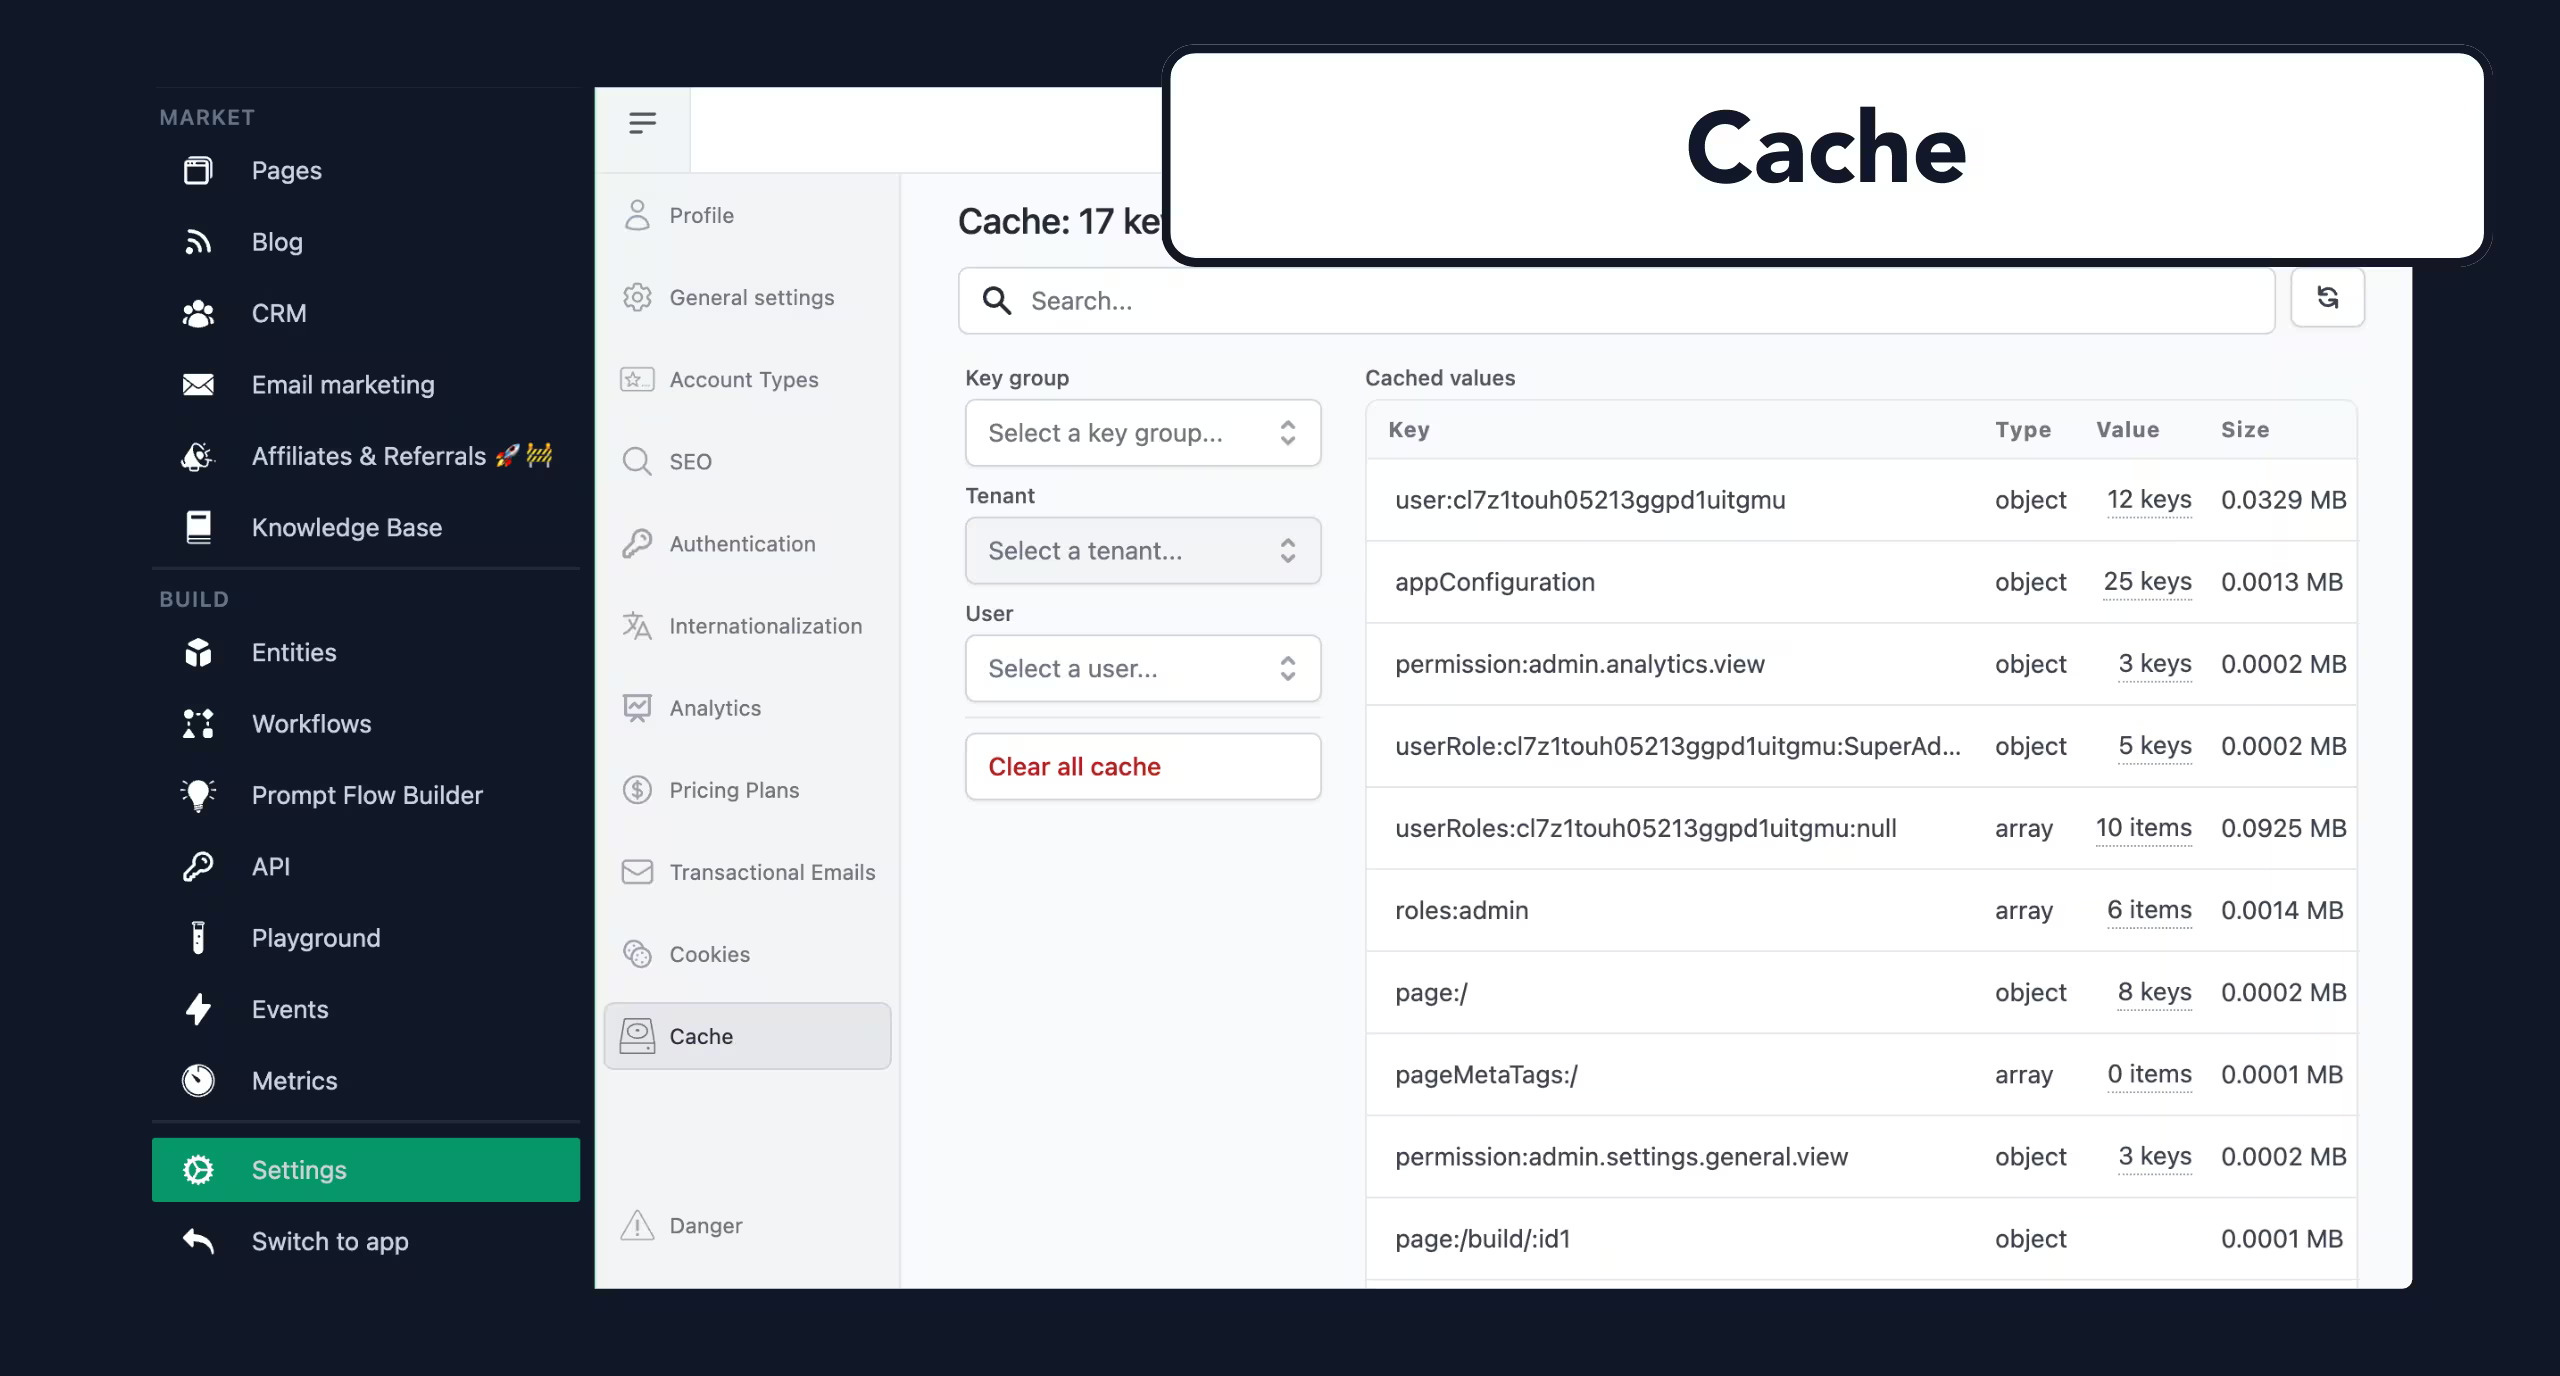
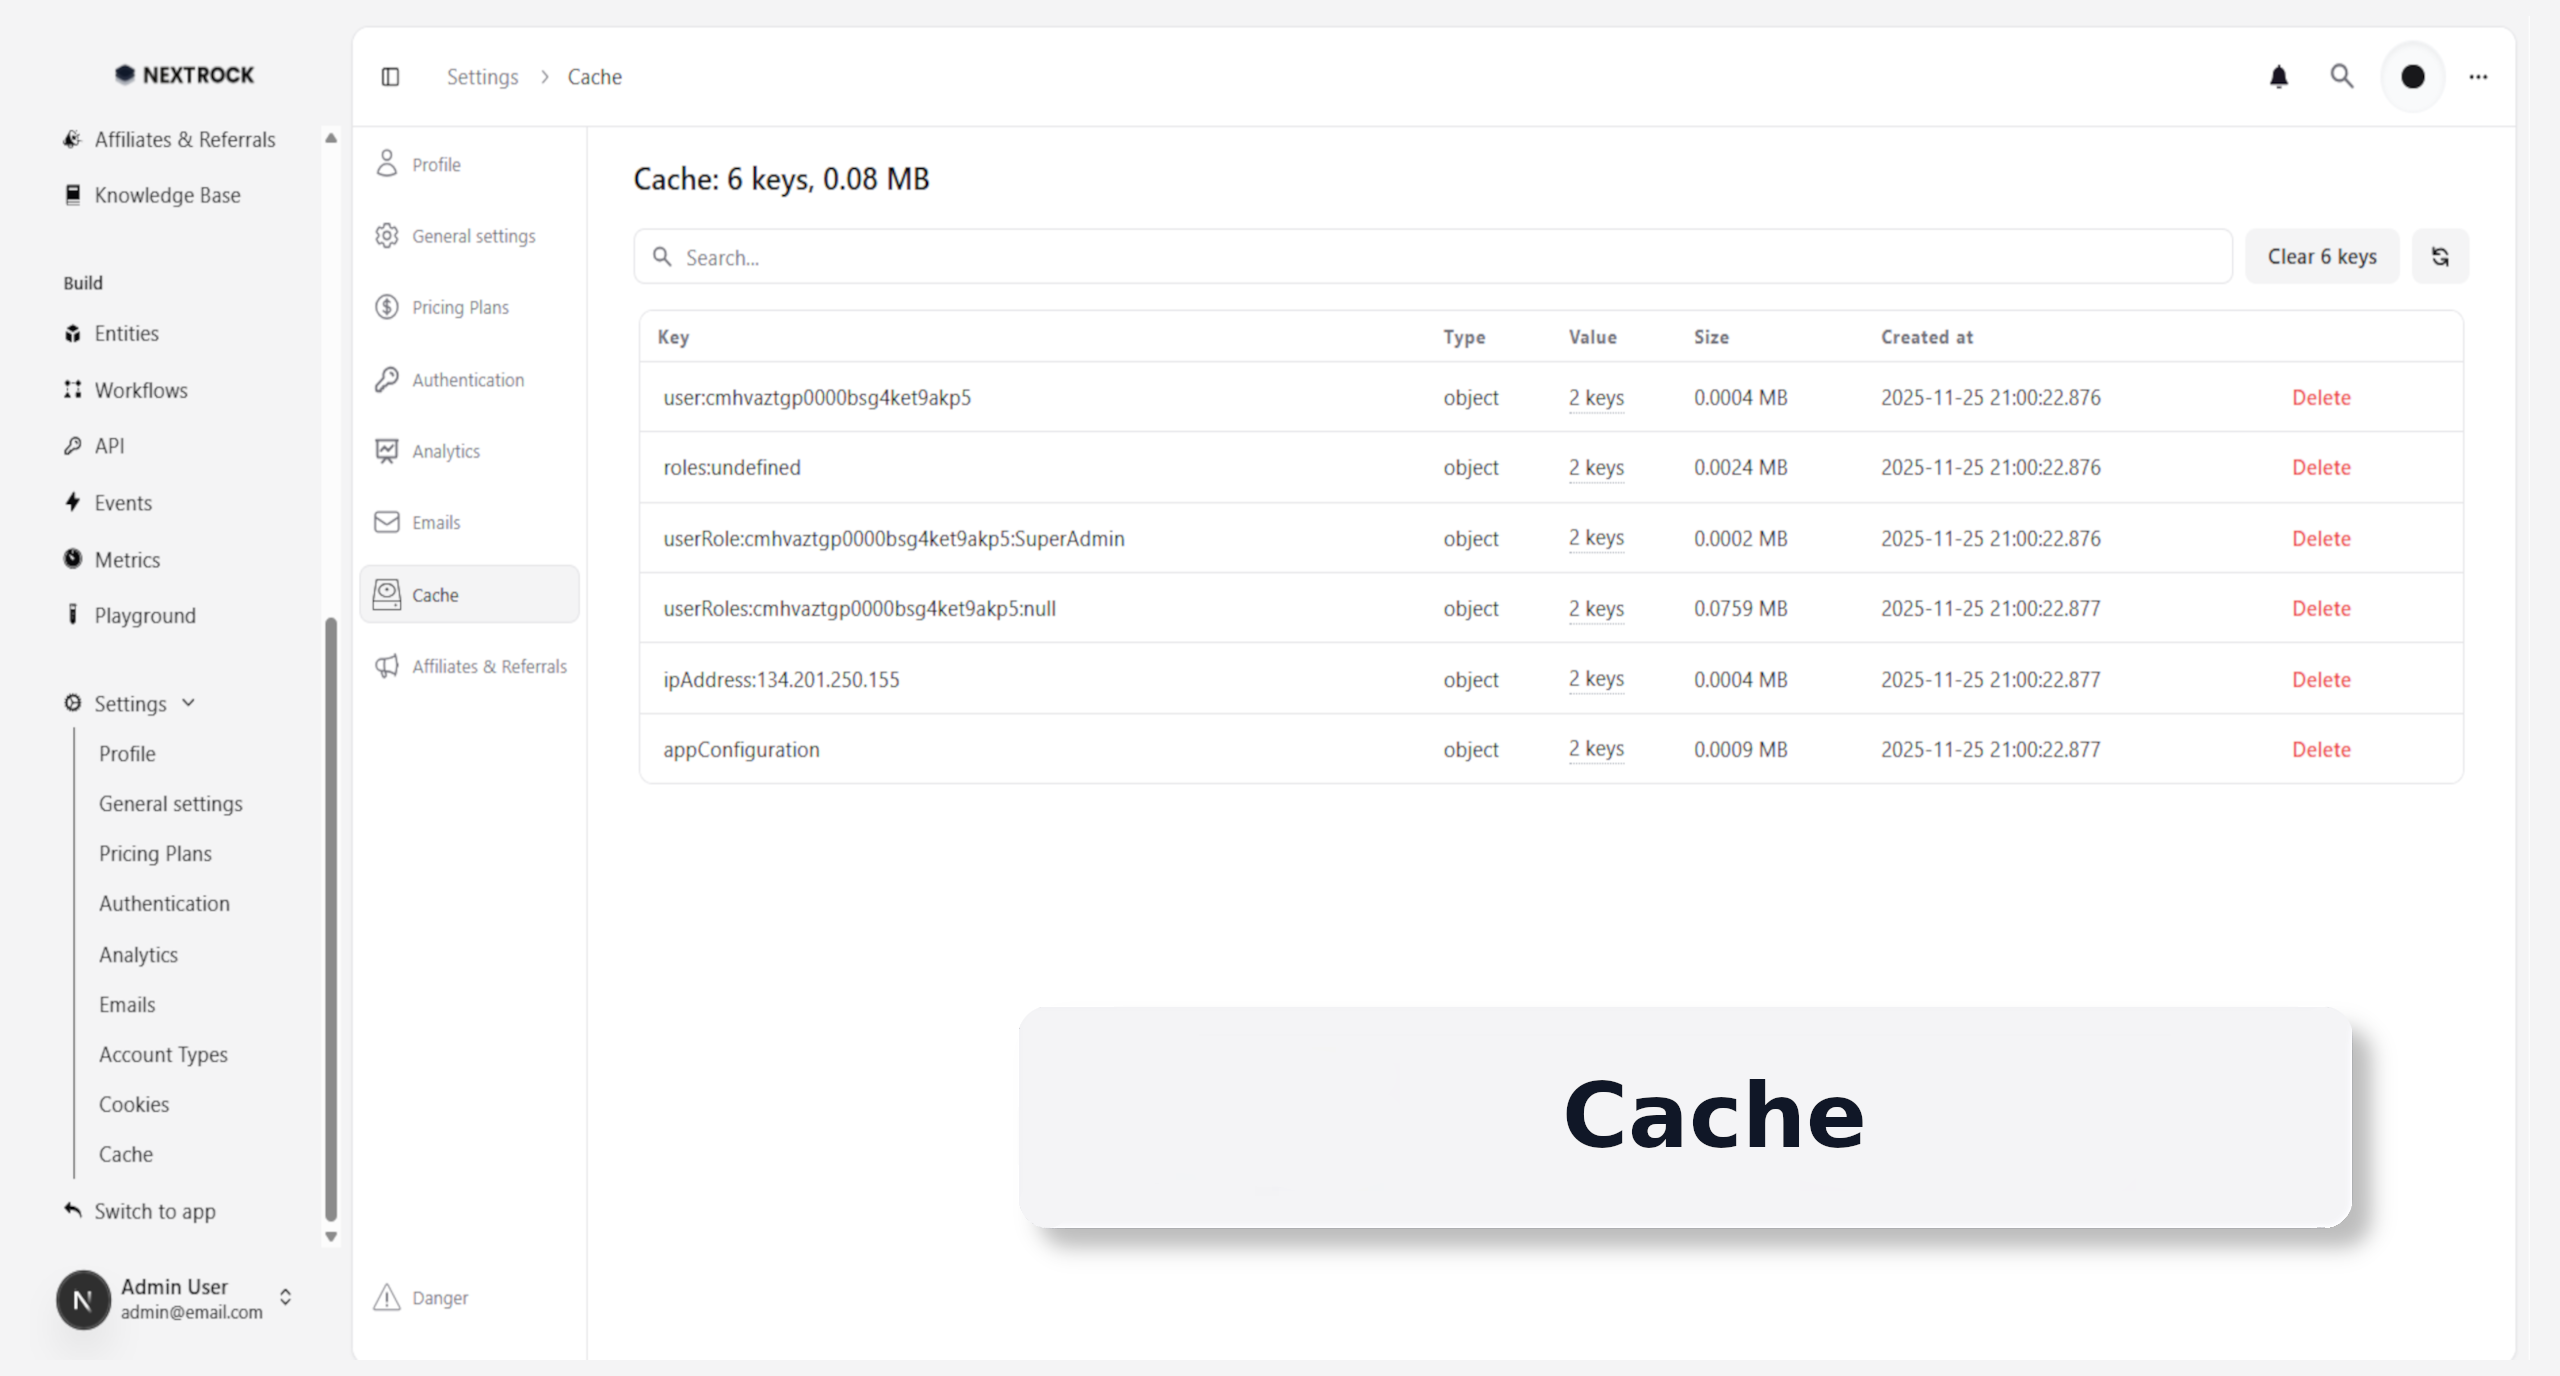
more migrations

diff --git a/src/lib/services/cache.server.ts b/src/lib/services/cache.server.ts
@@ -1,5 +1,6 @@
 import { cachified as originalCachified, CachifiedOptions, verboseReporter } from "@epic-web/cachified";
 import { getCacheConfig } from "./cacheConfig.server";
+import { LRUCache } from "lru-cache";
 
 const CACHE_LOGGING_ENABLED = true;
 
@@ -8,6 +9,23 @@ let redisClient: any = null;
 let cacheAdapter: any = null;
 let isConnecting = false;
 let connectionPromise: Promise<void> | null = null;
+
+// Memory cache using LRU
+let memoryCache: LRUCache<string, any> | null = null;
+
+function getMemoryCache() {
+  if (!memoryCache) {
+    memoryCache = new LRUCache({
+      max: 500, // Maximum number of items
+      ttl: 1000 * 60 * 60, // 1 hour default TTL
+      maxSize: 50 * 1024 * 1024, // 50MB max cache size
+      sizeCalculation: (value) => {
+        return JSON.stringify(value).length;
+      },
+    });
+  }
+  return memoryCache;
+}
 
 async function getRedisClient() {
   if (redisClient) return redisClient;
@@ -70,6 +88,17 @@ async function getRedisClient() {
 
 async function getCache() {
   const cacheType = getCacheConfig();
+  
+  if (cacheType === "memory") {
+    const lru = getMemoryCache();
+    // Return a cachified-compatible adapter
+    return {
+      get: async (key: string) => lru.get(key),
+      set: async (key: string, value: any) => lru.set(key, value),
+      delete: async (key: string) => lru.delete(key),
+    };
+  }
+  
   if (cacheType !== "redis") {
     return null;
   }
@@ -190,13 +219,39 @@ export async function getCachedValues() {
   if (!cacheType) {
     return [];
   }
+  
   try {
+    const cachedValues: CachedValue[] = [];
+    
+    if (cacheType === "memory") {
+      const lru = getMemoryCache();
+      const allKeys = Array.from(lru.keys());
+      
+      for (const key of allKeys) {
+        const value = lru.get(key);
+        if (!value) {
+          continue;
+        }
+        const sizeBytes = new TextEncoder().encode(JSON.stringify(value)).length;
+        const sizeMb = sizeBytes / 1024 / 1024;
+        cachedValues.push({
+          key,
+          value,
+          sizeMb,
+          createdAt: new Date(),
+          createdTime: Date.now(),
+        });
+      }
+      return cachedValues;
+    }
+    
+    // Redis cache
     const redis = await getRedisClient();
     if (!redis || !redis.isOpen) {
       return [];
     }
     const allKeys = await redis.keys("*");
-    const cachedValues: CachedValue[] = [];
+    
     for (const key of allKeys) {
       if (cachedValues.find((x) => x.key === key)) {
         continue;
@@ -207,9 +262,6 @@ export async function getCachedValues() {
       }
       const sizeBytes = new TextEncoder().encode(JSON.stringify(value)).length;
       const sizeMb = sizeBytes / 1024 / 1024;
-      // const createdTime = value.metadata.createdTime;
-      // const createdAt = new Date(createdTime);
-      // const cachedValue = { key, value: value.value, sizeMb, createdAt, createdTime };
       cachedValues.push({
         key,
         value,
@@ -232,7 +284,15 @@ export async function clearAllCache() {
   if (!cacheType) {
     return;
   }
+  
   try {
+    if (cacheType === "memory") {
+      const lru = getMemoryCache();
+      lru.clear();
+      return;
+    }
+    
+    // Redis cache
     const redis = await getRedisClient();
     if (!redis || !redis.isOpen) {
       return;
